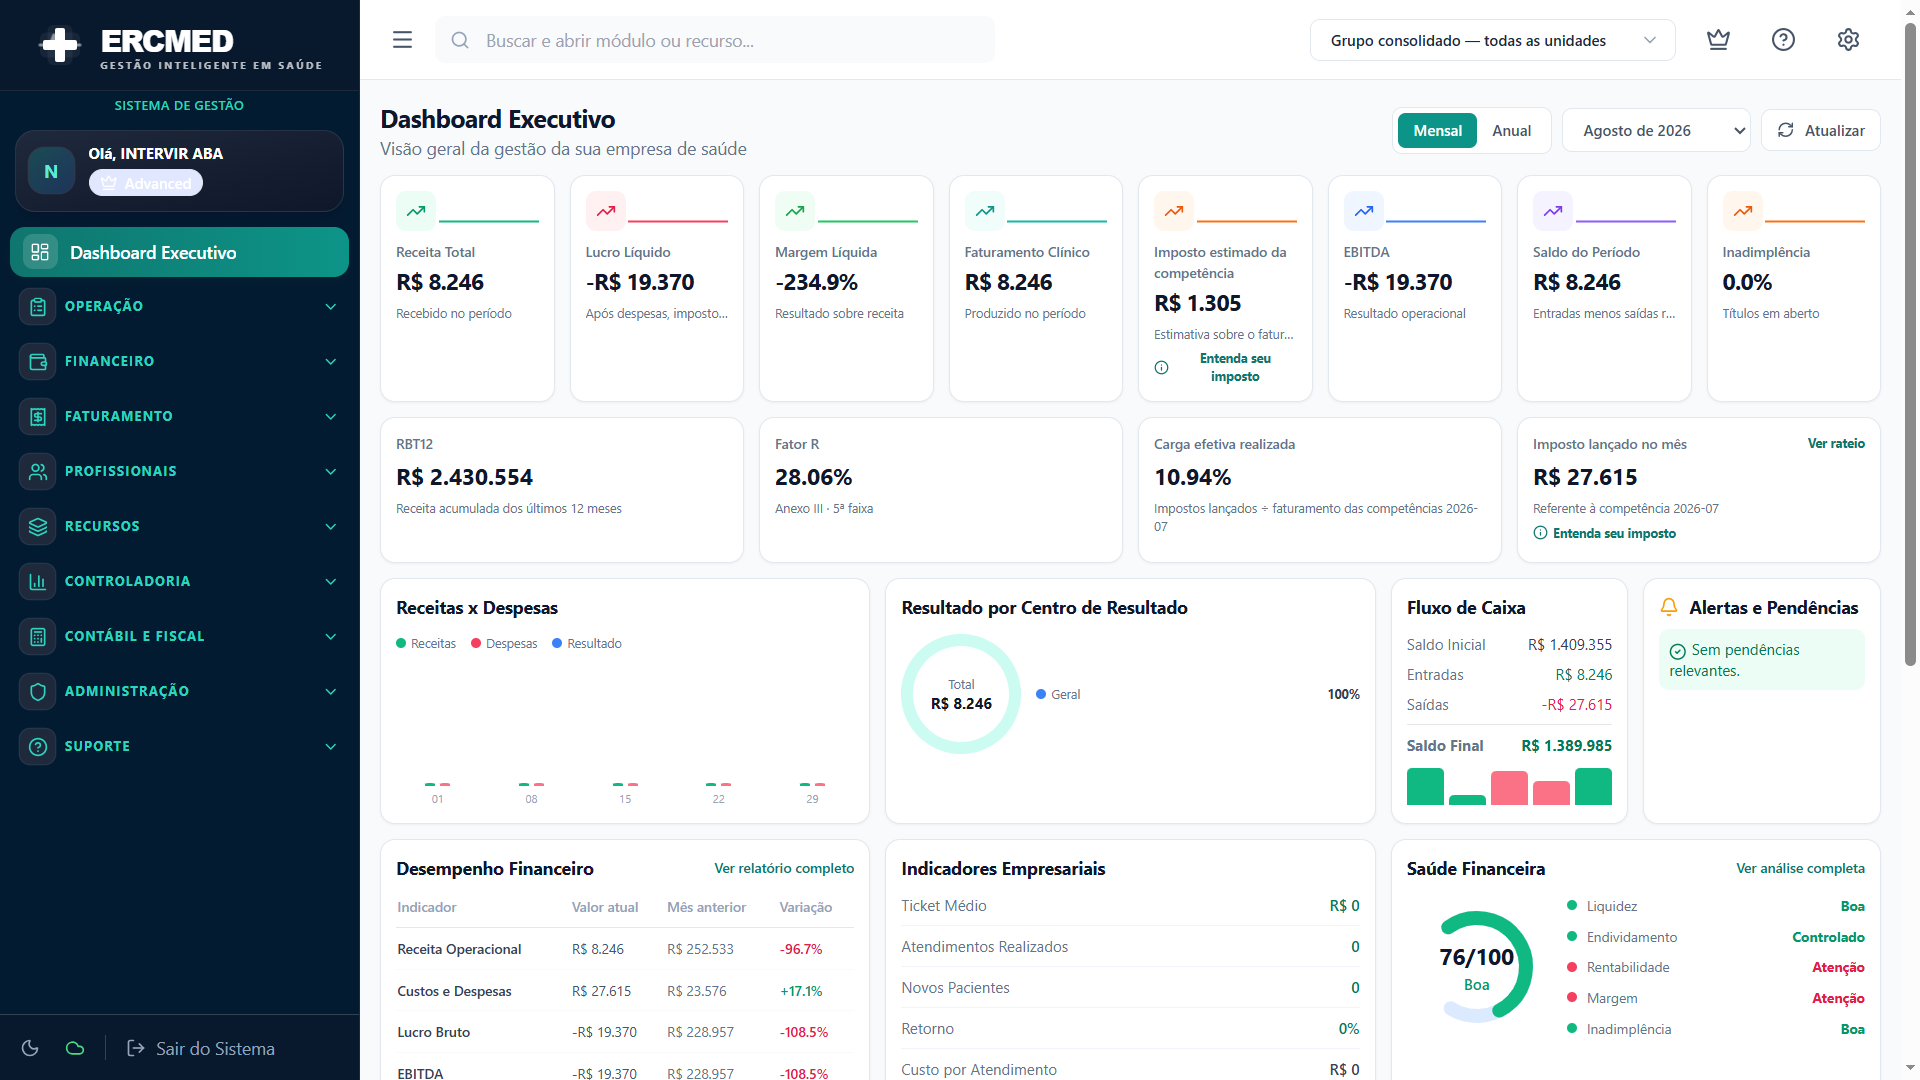
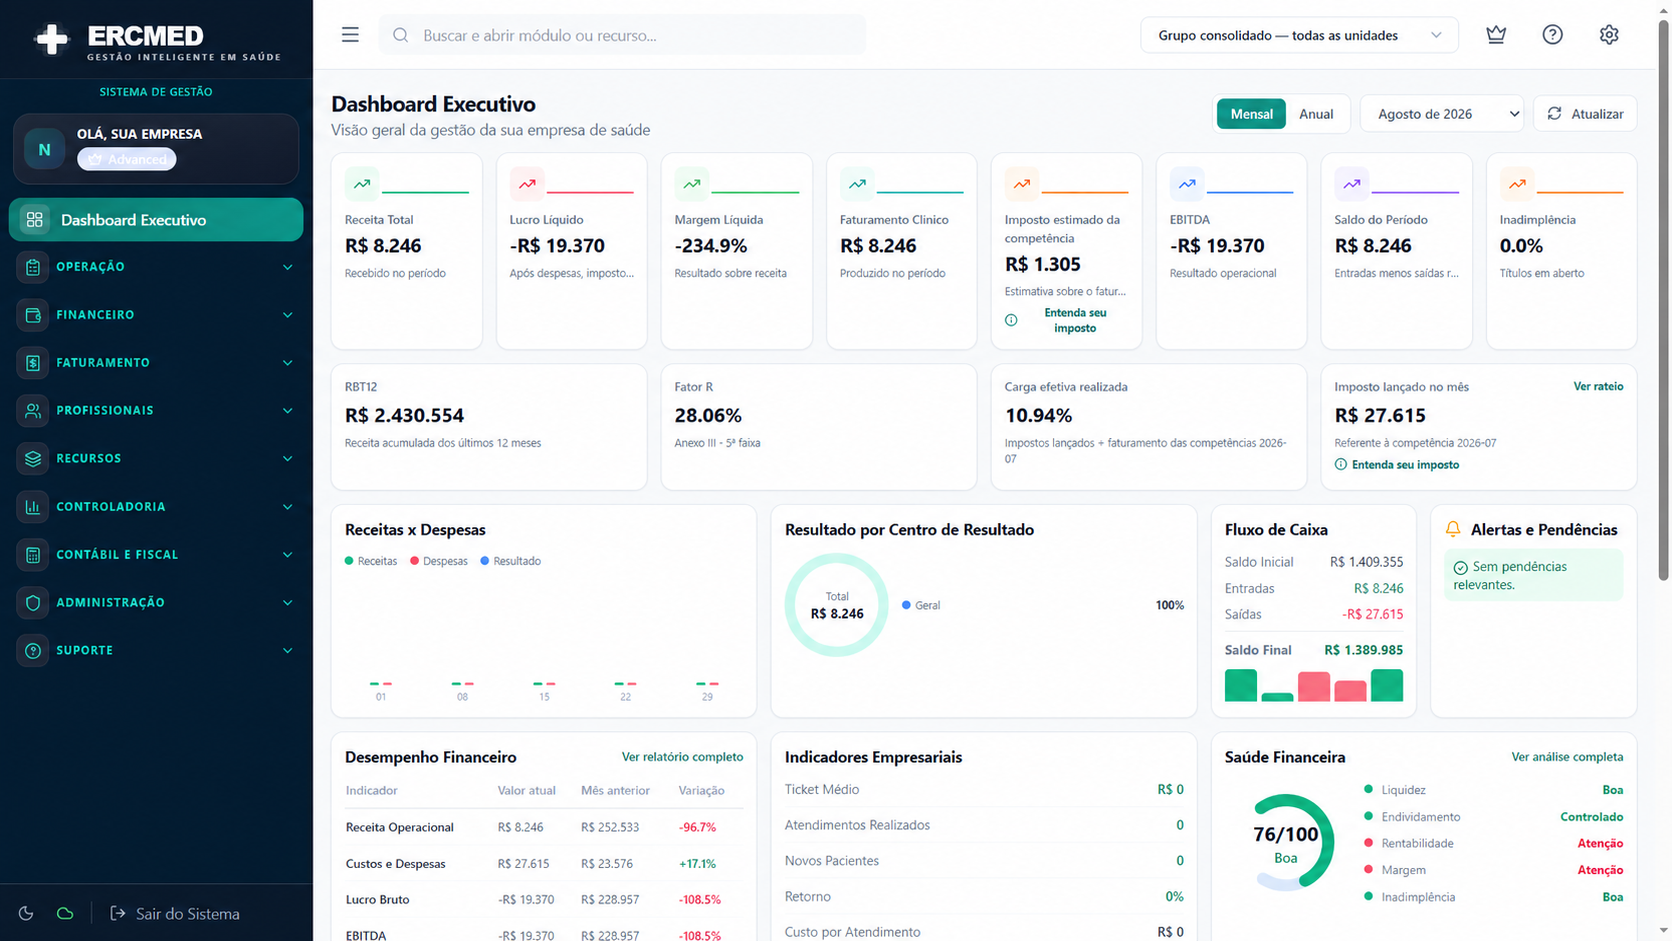
fix: anonimiza dashboard e remove referencias a IA

diff --git a/components/LandingPage.tsx b/components/LandingPage.tsx
@@ -70,12 +70,12 @@ const publicPlans = [
         accent: 'indigo'
     },
     {
-        name: 'Enterprise AI',
-        subtitle: 'Inteligência e automação',
+        name: 'Enterprise',
+        subtitle: 'Automação e performance',
         price: '390,00',
         limit: 'Até 20 profissionais',
-        description: 'Para operações que buscam automação, inteligência gerencial e prioridade no atendimento.',
-        features: ['Tudo do Advanced', 'Recursos de IA do ERP', 'Automação de processos', 'Análises gerenciais avançadas', 'Suporte prioritário'],
+        description: 'Para operações que buscam automação, gestão avançada e prioridade no atendimento.',
+        features: ['Tudo do Advanced', 'Fluxos operacionais avançados', 'Automação de processos', 'Análises gerenciais avançadas', 'Suporte prioritário'],
         action: 'Testar 15 dias grátis',
         icon: Zap,
         accent: 'purple'
@@ -405,9 +405,9 @@ const LandingPage: React.FC<LandingPageProps> = ({ onLoginClick, onTrialClick })
 
                     <div className="rounded-3xl border border-slate-200 bg-gradient-to-br from-slate-100 to-teal-50 p-8 shadow-sm sm:p-10">
                         <BrainCircuit className="h-10 w-10 text-teal-700" />
-                        <h3 className="mt-6 text-2xl font-black">Gestão com inteligência e governança.</h3>
+                        <h3 className="mt-6 text-2xl font-black">Gestão avançada e governança.</h3>
                         <p className="mt-4 leading-relaxed text-slate-600">
-                            Permissões por perfil, rastreabilidade dos lançamentos, visão por unidade, centros de resultado, metas, BI e apoio de IA tornam a operação mais segura e a diretoria mais rápida para decidir.
+                            Permissões por perfil, rastreabilidade dos lançamentos, visão por unidade, centros de resultado, metas, BI e automação tornam a operação mais segura e a diretoria mais rápida para decidir.
                         </p>
                         <button onClick={handleWhatsApp} className="mt-7 inline-flex items-center gap-2 font-bold text-teal-700 hover:text-teal-800">
                             Conversar sobre minha operação <ArrowRight className="h-4 w-4" />
@@ -482,7 +482,7 @@ const LandingPage: React.FC<LandingPageProps> = ({ onLoginClick, onTrialClick })
                                     </thead>
                                     <tbody className="divide-y divide-slate-100">
                                         <tr><td className="px-5 py-4 font-semibold">Profissionais</td><td className="text-center">Até 3</td><td className="text-center">Até 10</td><td className="text-center">Até 20</td><td className="text-center">Até 20</td><td className="text-center">Ilimitados</td></tr>
-                                        <tr><td className="px-5 py-4 font-semibold">Gestão financeira</td><td className="text-center">Básica</td><td className="text-center">Relatórios</td><td className="text-center">Completa</td><td className="text-center">Completa + IA</td><td className="text-center">Personalizada</td></tr>
+                                        <tr><td className="px-5 py-4 font-semibold">Gestão financeira</td><td className="text-center">Básica</td><td className="text-center">Relatórios</td><td className="text-center">Completa</td><td className="text-center">Completa + automação</td><td className="text-center">Personalizada</td></tr>
                                         <tr><td className="px-5 py-4 font-semibold">Suporte</td><td className="text-center">E-mail</td><td className="text-center">E-mail</td><td className="text-center">Chat</td><td className="text-center">Prioritário</td><td className="text-center">Dedicado</td></tr>
                                     </tbody>
                                 </table>
